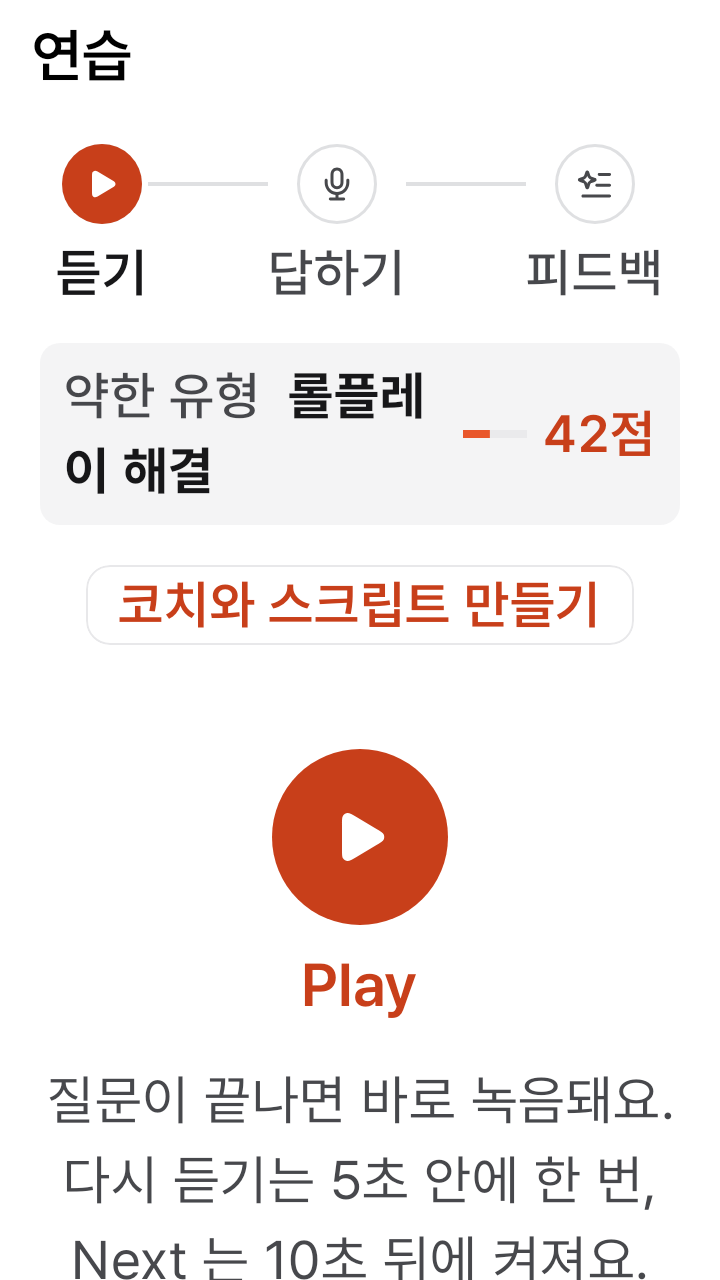
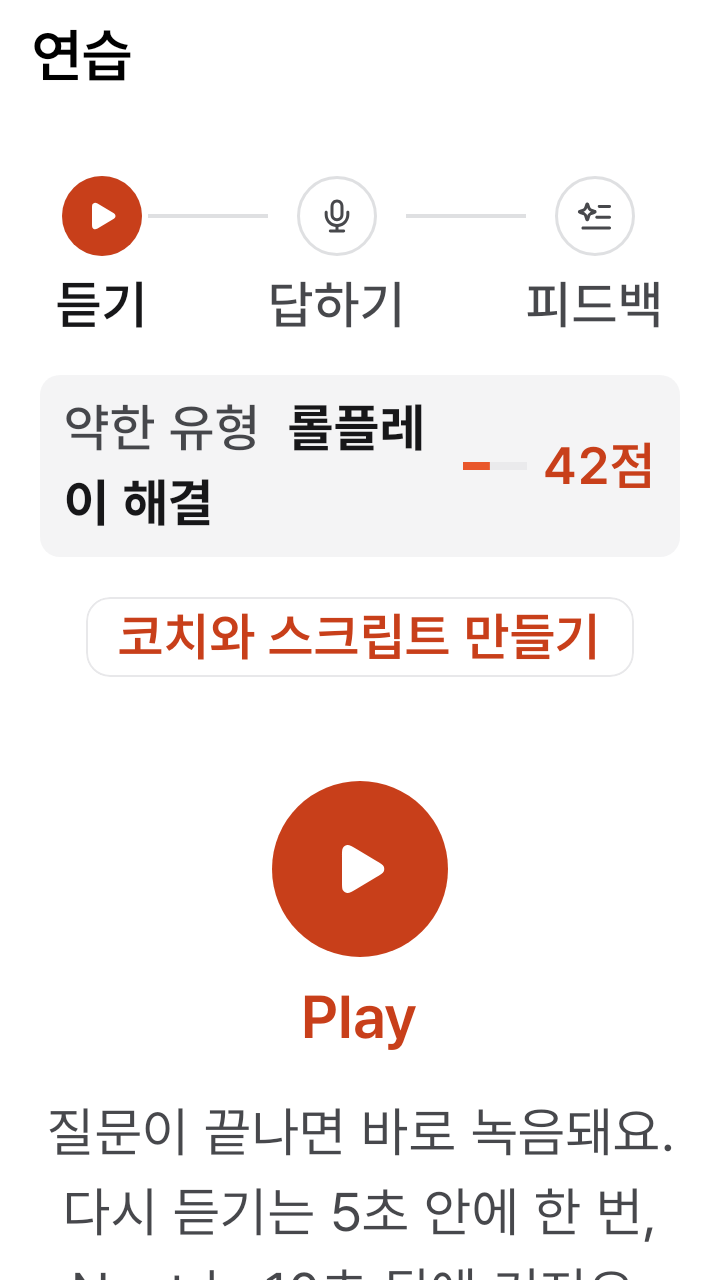
[speaking-ui] 연습 탭 맨 위에 말하기 연습 카드와 오늘 복습 카드 칸을 더했다 (#290)

diff --git a/ui/feature-practice/src/commonMain/kotlin/io/github/nosorae/aiopic/ui/featurepractice/PracticeTabScreen.kt b/ui/feature-practice/src/commonMain/kotlin/io/github/nosorae/aiopic/ui/featurepractice/PracticeTabScreen.kt
@@ -1,6 +1,7 @@
 package io.github.nosorae.aiopic.ui.featurepractice
 
 import androidx.compose.foundation.layout.Arrangement
+import androidx.compose.foundation.layout.Box
 import androidx.compose.foundation.layout.Column
 import androidx.compose.foundation.layout.Spacer
 import androidx.compose.foundation.layout.fillMaxWidth
@@ -30,20 +31,20 @@ import org.jetbrains.compose.resources.stringResource
 
 /**
  * 연습 탭의 바깥 겹. [onStart] 는 한 문항 연습 화면을 연다. 그 화면이 열리자마자 질문을 읽어서 Play 는 한 번만 누른다.
- * [onOpenCoach] 는 코치 시작 시트를 연다(F10.1).
+ * [onOpenCoach] 는 코치 시작 시트를 연다(F10.1). [header] 는 탭 맨 위의 말하기 연습 카드와 오늘 복습 카드다(F16.1). 앱 층이 넣는다.
  */
 @Composable
-fun PracticeTabRoute(viewModel: PracticeTabViewModel, onStart: () -> Unit, onOpenCoach: () -> Unit, modifier: Modifier = Modifier) {
+fun PracticeTabRoute(viewModel: PracticeTabViewModel, onStart: () -> Unit, onOpenCoach: () -> Unit, modifier: Modifier = Modifier, header: @Composable () -> Unit = {}) {
     val state by viewModel.uiState.collectAsStateWithLifecycle()
-    PracticeTabScreen(state, onStart, onOpenCoach, modifier)
+    PracticeTabScreen(state, onStart, onOpenCoach, modifier, header)
 }
 
 /**
- * 연습 탭의 안쪽 겹. 한 문항 연습 화면의 Play 전 모습과 같게 그려서, Play 를 누르면 같은 자리에서 질문 읽기가 이어지는 것처럼 보인다.
- * 위에서부터 단계 표시, 다음 문항을 낼 약한 유형, 코치 시작 버튼, Play, 규칙 한 줄이다.
+ * 연습 탭의 안쪽 겹. 맨 위에 [header] 를 두고, 그 아래는 한 문항 연습 화면의 Play 전 모습과 같게 그려서 Play 를 누르면 같은 자리에서 질문 읽기가 이어지는 것처럼 보인다.
+ * 한 문항 연습은 위에서부터 단계 표시, 다음 문항을 낼 약한 유형, 코치 시작 버튼, Play, 규칙 한 줄이다.
  */
 @Composable
-fun PracticeTabScreen(state: PracticeTabUiState, onStart: () -> Unit, onOpenCoach: () -> Unit, modifier: Modifier = Modifier) {
+fun PracticeTabScreen(state: PracticeTabUiState, onStart: () -> Unit, onOpenCoach: () -> Unit, modifier: Modifier = Modifier, header: @Composable () -> Unit = {}) {
     val haptics = LocalHaptics.current
     MontageScreen(modifier = modifier, topBar = { MontageTopBar(title = stringResource(Res.string.practice_tab_title)) }) {
         Column(
@@ -51,6 +52,7 @@ fun PracticeTabScreen(state: PracticeTabUiState, onStart: () -> Unit, onOpenCoac
             horizontalAlignment = Alignment.CenterHorizontally,
             verticalArrangement = Arrangement.spacedBy(MontageSpacing.spacing16),
         ) {
+            Box(Modifier.padding(horizontal = Gutter)) { header() }
             MontageAnswerSteps(current = AnswerStep.Listen, withFeedback = true, modifier = Modifier.padding(horizontal = Gutter + MontageSpacing.spacing8))
             // 읽기 전에 "모든 유형" 을 보였다가 약한 유형으로 바꾸지 않는다.
             if (state.loaded) {

diff --git a/ui/feature-practice/src/androidHostTest/kotlin/io/github/nosorae/aiopic/ui/featurepractice/PracticeTabScreenshotTest.kt b/ui/feature-practice/src/androidHostTest/kotlin/io/github/nosorae/aiopic/ui/featurepractice/PracticeTabScreenshotTest.kt
@@ -3,12 +3,15 @@ package io.github.nosorae.aiopic.ui.featurepractice
 import androidx.test.ext.junit.runners.AndroidJUnit4
 import com.github.takahirom.roborazzi.captureRoboImage
 import io.github.nosorae.aiopic.ui.design.MontageTheme
+import io.github.nosorae.aiopic.ui.featurespeaking.SpeakingCards
+import io.github.nosorae.aiopic.ui.featurespeaking.SpeakingCardsSamples
+import io.github.nosorae.aiopic.ui.featurespeaking.SpeakingCardsUiState
 import org.junit.Test
 import org.junit.runner.RunWith
 import org.robolectric.annotation.Config
 import org.robolectric.annotation.GraphicsMode
 
-/** 연습 탭. 약한 유형이 있을 때와 없을 때, 다크, 글자 200%. 입력은 [PracticeTabSamples] 다. */
+/** 연습 탭. 약한 유형이 있을 때와 없을 때, 맨 위 카드 둘의 상태마다(F16.1, F18.10), 다크, 글자 200%. 입력은 [PracticeTabSamples] 와 [SpeakingCardsSamples] 다. */
 @RunWith(AndroidJUnit4::class)
 @GraphicsMode(GraphicsMode.Mode.NATIVE)
 @Config(sdk = [35], qualifiers = "w360dp-h640dp-xhdpi")
@@ -23,7 +26,23 @@ class PracticeTabScreenshotTest {
 
     @Test fun anyType() = shot(PracticeTabSamples.anyType)
 
-    private fun shot(state: PracticeTabUiState, dark: Boolean = false) = captureRoboImage {
-        MontageTheme(darkTheme = dark) { PracticeTabScreen(state = state, onStart = {}, onOpenCoach = {}) }
+    @Test fun cards() = shot(PracticeTabSamples.weak, cards = SpeakingCardsSamples.default)
+
+    @Test fun cards_dark() = shot(PracticeTabSamples.weak, dark = true, cards = SpeakingCardsSamples.default)
+
+    @Config(fontScale = 2f)
+    @Test
+    fun cards_fontScale200() = shot(PracticeTabSamples.weak, cards = SpeakingCardsSamples.default)
+
+    @Test fun cardsRunning() = shot(PracticeTabSamples.weak, cards = SpeakingCardsSamples.running)
+
+    @Test fun cardsReviewDone() = shot(PracticeTabSamples.weak, cards = SpeakingCardsSamples.reviewDone)
+
+    @Test fun cardsFirst() = shot(PracticeTabSamples.weak, cards = SpeakingCardsSamples.first)
+
+    private fun shot(state: PracticeTabUiState, dark: Boolean = false, cards: SpeakingCardsUiState? = null) = captureRoboImage {
+        MontageTheme(darkTheme = dark) {
+            PracticeTabScreen(state = state, onStart = {}, onOpenCoach = {}, header = { cards?.let { SpeakingCards(it, {}, {}, {}) } })
+        }
     }
 }
